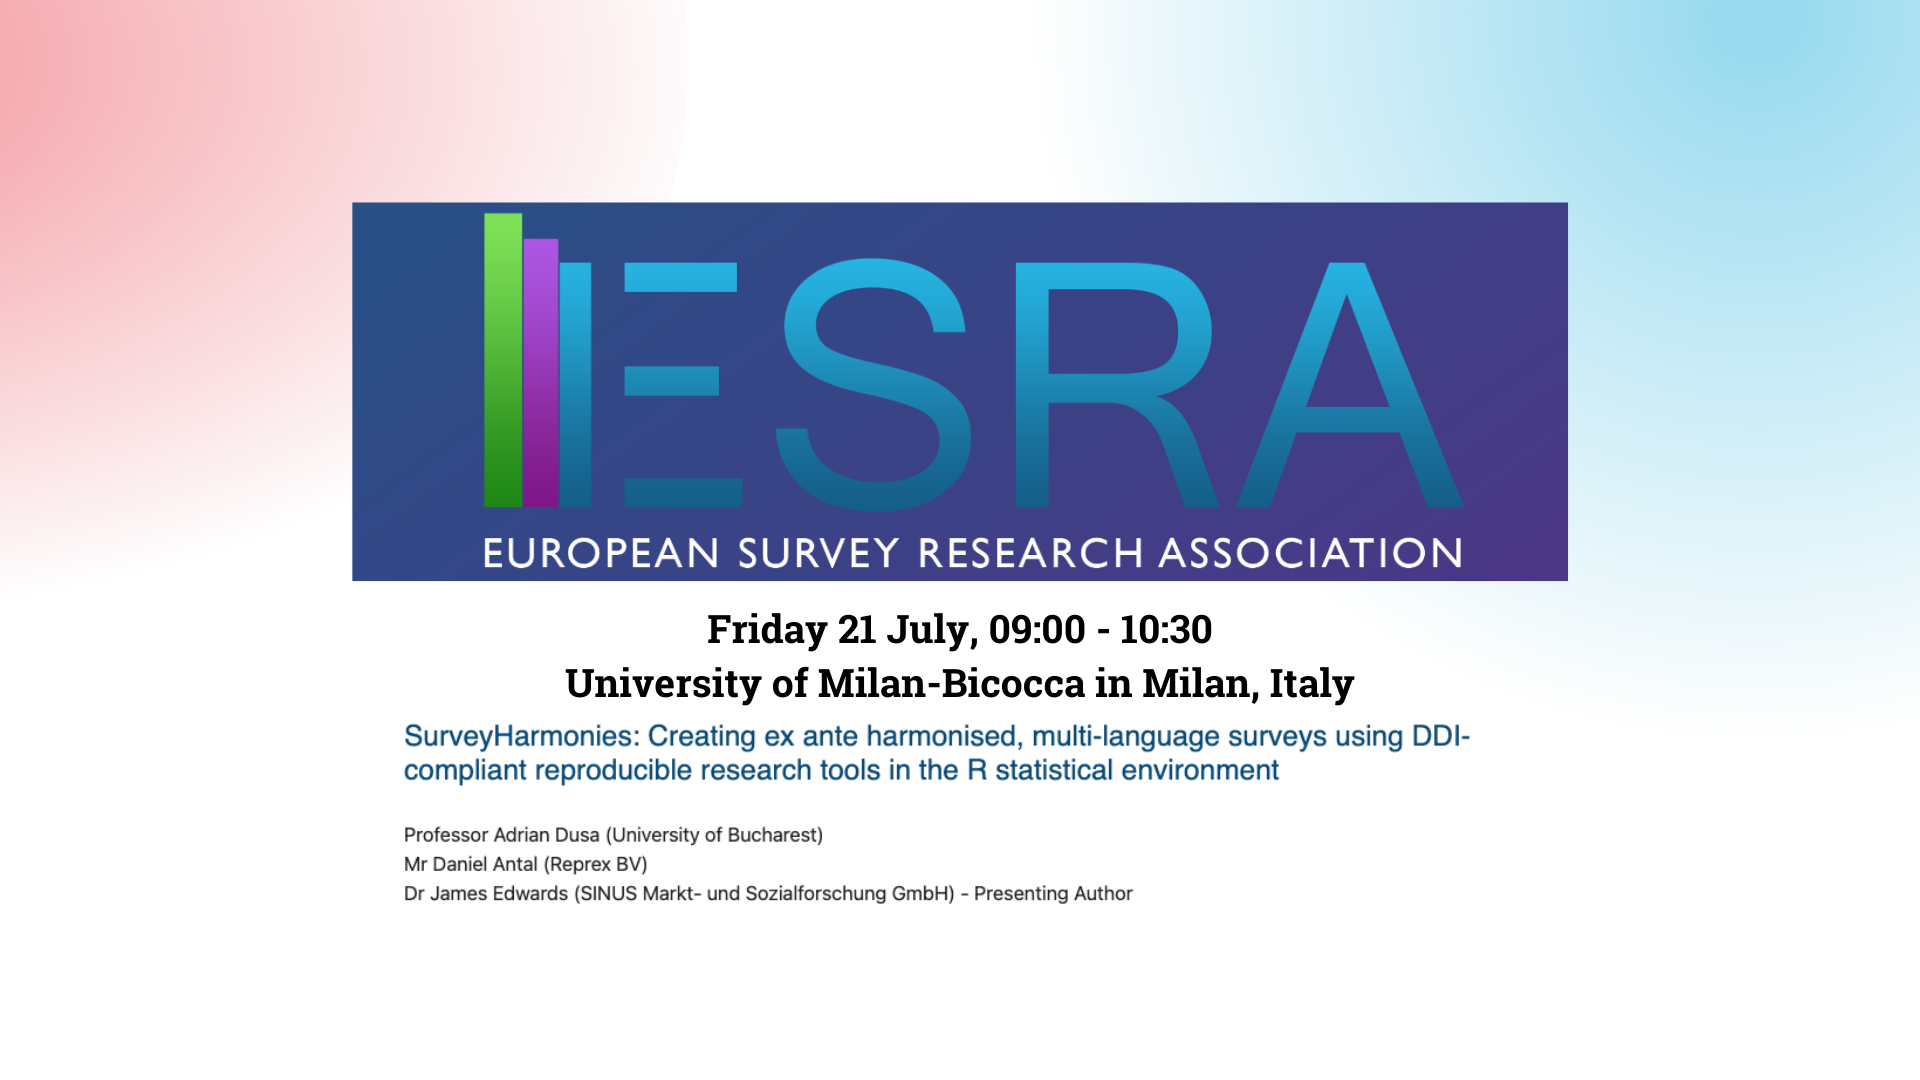
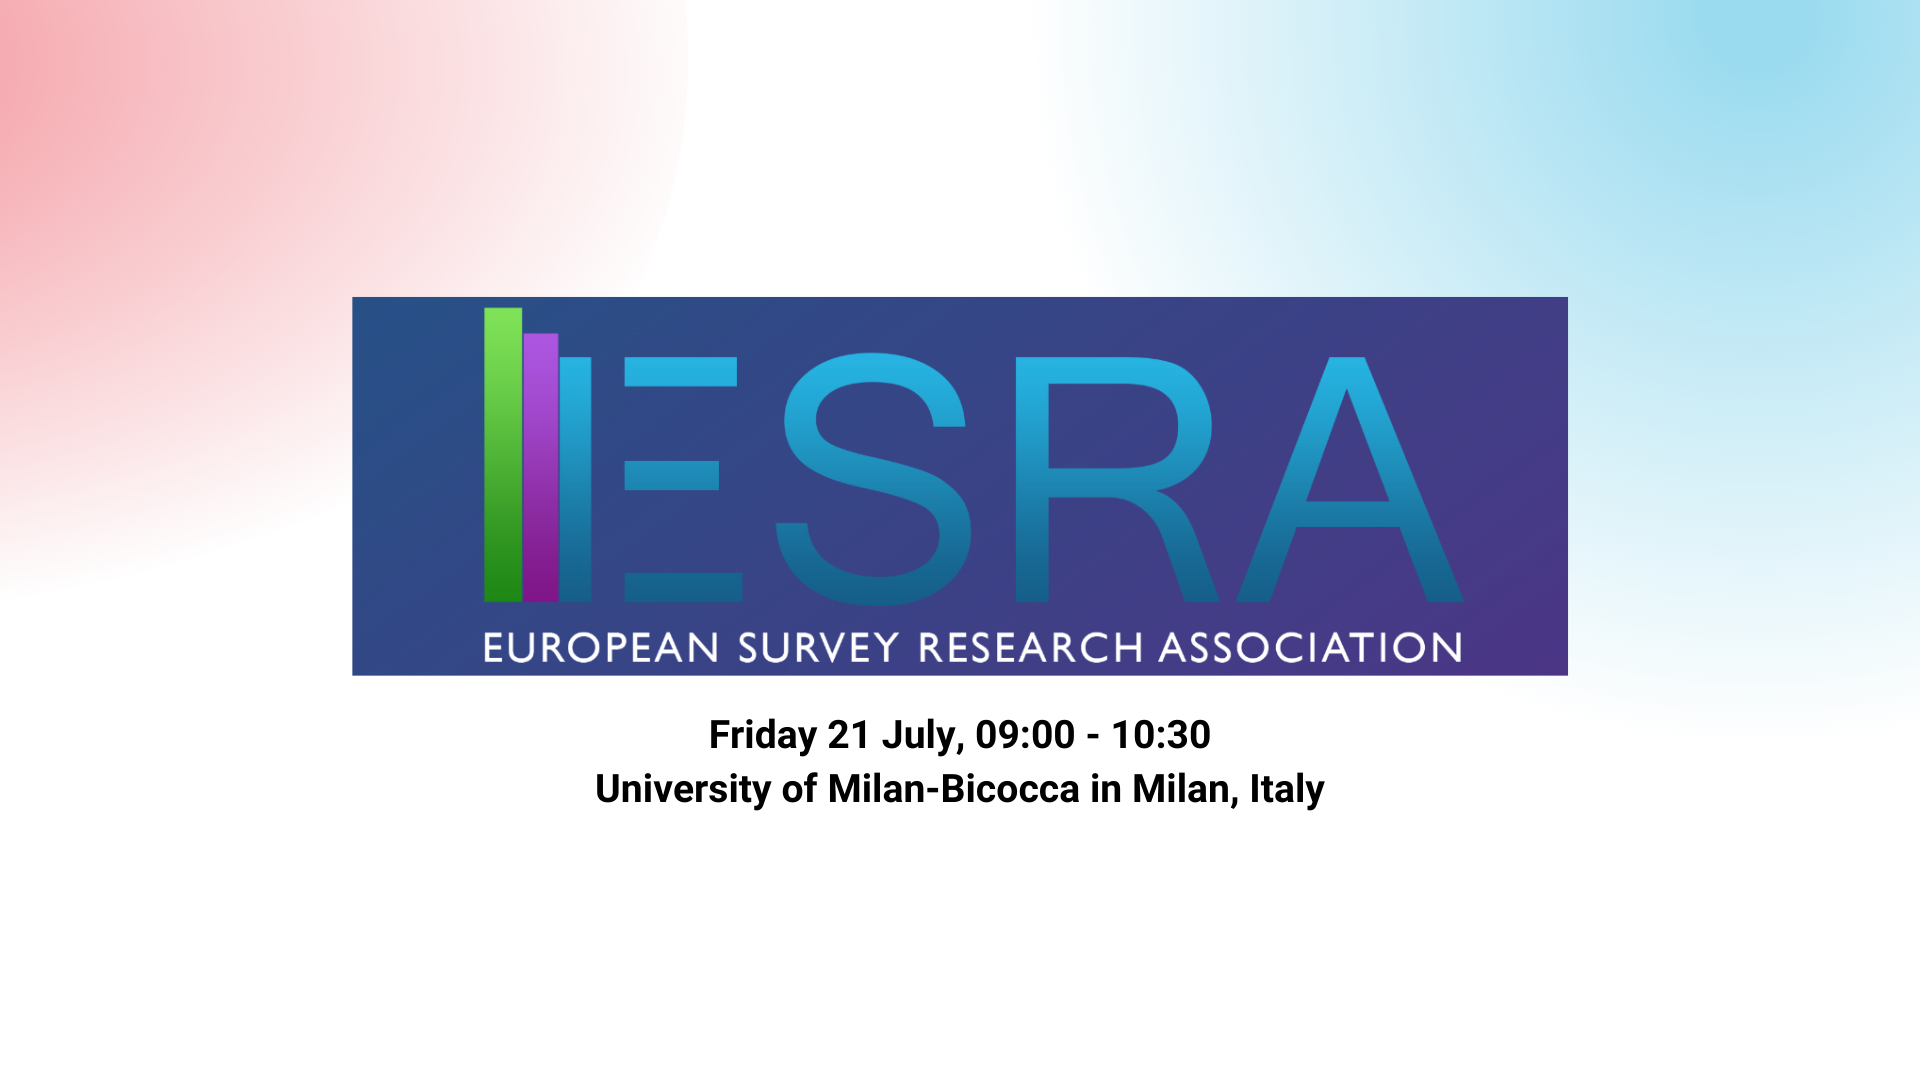
surveyharmonies slides

Changed region(s): [[0.1562, 0.1833, 0.8438, 0.8556]]

diff --git a/content/slides/surveyharmonies/index.md b/content/slides/surveyharmonies/index.md
@@ -27,6 +27,11 @@ slides:
 
 --- 
 
+{{< slide background-image="concept_harmonisation.png" background-position="top">}}
+<h3 align="right">CONCEPT HARMONISATION</h3>
+ <br/><br/><br/><br/><br/><br/><br/></br></br>
+
+---
 {{< slide background-image="surveyharmonies_background_1.png" background-position="top">}}
 ## Concept harmonisation: cross-domain
 
@@ -37,21 +42,29 @@ slides:
 
 {{< slide background-image="surveyharmonies_background_2.png" background-position="top">}}
 ## Concept harmonisation: domain-specific
-Using the Cultural Access & Participation (and more general ICET model) and creating a lower-level breakdown of cross-domain variables whenever possible.
-- The quantification follows the ESSNet-Culture guidelines on measuring information, communication, enjoyment and transactions.
-- The most important domain-specific dimension is the occupation list qualified with high granularity to the music domain, which has been refined over eight years.
+<div style="font-size:85%;"  align="left">
+☑ Using the Cultural Access & Participation (and more general ICET model) and creating a lower-level breakdown of cross-domain variables whenever possible.</br>
+☑ The quantification follows the <a href="https://ec.europa.eu/assets/eac/culture/library/reports/ess-net-report_en.pdf" target="_blank">ESSNet-Culture guidelines</a> on measuring information, communication, enjoyment and transactions.</br>
+☑ The most important domain-specific dimension is the occupation list qualified with high granularity to the music domain, which has been refined over eight years.
+</div>
 
 --- 
 
 {{< slide background-image="surveyharmonies_background_1.png" background-position="top">}}
 ## Concept harmonisation: grouping dimensions within the music
 
-The dimensions are grouping or slicing variables (in the statistical datacube definition) for statistical aggregation. These are mainly the “cross-domain” concepts defined by the Statistical Data and Metadata Exchange (SDMX). 
-- Geographical concepts (countries, NUTS regions and cities)
-- Age, Sex, and Gender
-- Time concepts (frequency, period)
+<p style="font-size:85%;" align="left">The dimensions are grouping or slicing variables (in the statistical datacube definition) for statistical aggregation. These are mainly the “cross-domain” concepts defined by the <a href="https://sdmx.org/" target="_blank">Statistical Data and Metadata Exchange</a> (SDMX).</p>
+<div style="font-size:85%;"  align="left">
+☑ Geographical concepts (countries, NUTS regions and cities)</br>
+☑  Age, Sex, and Gender)</br>
+☑ Time concepts (frequency, period)</br>
+</div>
+ 
+----
 
-
+{{< slide background-image="questionbank_harmonisation.png" background-position="top">}}
+<h3 align="right">QUESTIONBANK</BR>HARMONISATION</h3>
+ <br/><br/><br/><br/><br/><br/><br/></br></br>
 
 ---
 
@@ -59,22 +72,68 @@ The dimensions are grouping or slicing variables (in the statistical datacube de
 
 ---
 
-{{< slide background-image="surveyharmonies_background_2.png" background-position="top">}}
+{{< slide background-image="translation_harmonisation.png" background-position="top">}}
+<h3 align="right">TRANSLATION HARMONISATION</h3>
+ <br/><br/><br/><br/><br/><br/><br/></br></br>
+ 
+
+---
+
+{{< slide background-image="codebook_harmonisation.png" background-position="top">}}
+<h3 align="right">CODEBOOK HARMONISATION</h3>
+ <br/><br/><br/><br/><br/><br/><br/></br></br>
+ 
+---
+
+{{< slide background-image="surveyharmonies_background_1.png" background-position="top">}}
+
+---
+
+{{< slide background-image="surveyharmonies_questionbank_demo.webp" background-position="top">}}
+#### Multi-language questionbank for music
+<p style="font-size:80%;" align="center">
+🖱 Click to our <a href="https://music.dataobservatory.eu/post/2022-12-19-harmonized-surveys/" target="_blank">blogpost</a> to see the questionbank
+ </p><br/><br/><br/><br/><br/><br/></br></br>
+
+---
+
+
+{{< slide background-image="output_harmonisation.png" background-position="top">}}
+<h3 align="right">OUTPUT HARMONISATION</h3>
+ <br/><br/><br/><br/><br/><br/><br/></br></br>
+ 
+---
+
+{{< slide background-image="ESRA.png" background-position="top">}}
+## SCIENTIFIC PRESENTATION
+<p style="font-size:75%;">🖱 <a href="/talk/surveyharmonies/" target="_blank">Creating ex ante harmonised, multi-language surveys using DDI-compliant reproducible research tools in the R statistical environment</a><p>
+<br/><br/><br/><br/><br/><br/><br/><br/><br/><br/><br/><br/>
 
 ---
 
 {{< slide background-image="ESRA_speakers.png" background-position="top">}}
+## ESRA2023
+<br/><br/><br/><br/><br/><br/><br/><br/><br/><br/><br/><br/>
 
 --- 
 
-{{< slide background-image="ESRA.png" background-position="top">}}
-## Scientific Presentation
-<br/><br/><br/><br/><br/><br/><br/></br></br></br></br>
+{{< slide background-image="surveyharmonies_background_1.png" background-position="top">}}
+## Links
 
----
+Software: [retroharmonize](https://retroharmonize.dataobservatory.eu/) | [statcodelists](https://statcodelists.dataobservatory.eu/index.html) | [dataset](https://dataset.dataobservatory.eu/index.html) | [DDIwR](https://cran.r-project.org/web/packages/DDIwR/index.html)
+
+Questionbank demo: [blogpost](https://music.dataobservatory.eu/post/2022-12-19-harmonized-surveys/) | [online version](https://music.dataobservatory.eu/documents/multilanguage_qb.html)
+
+Conference: [program](https://music.dataobservatory.eu/talk/surveyharmonies/) | [registration](https://www.europeansurveyresearch.org/conference/milan-2023/registration-and-fees/)
+
+Data exchange: [Digital Music Observatory](https://music.dataobservatory.eu/) | [Cultural Creative Sectors Industries Observatory](https://ccsi.dataobservatory.eu/)
+
+Support: [MusicAIRE](https://musicaire.eu/)
+
+
+--- 
 
 {{< slide background-image="surveyharmonies_background_2.png" background-position="top">}}
-
 # Questions?
 
 [🖱](https://www.linkedin.com/company/68855596)  Click the blue links | [email](https://reprex.nl/#contact) | [keybase](https://keybase.io/team/reprexcommunity) 
